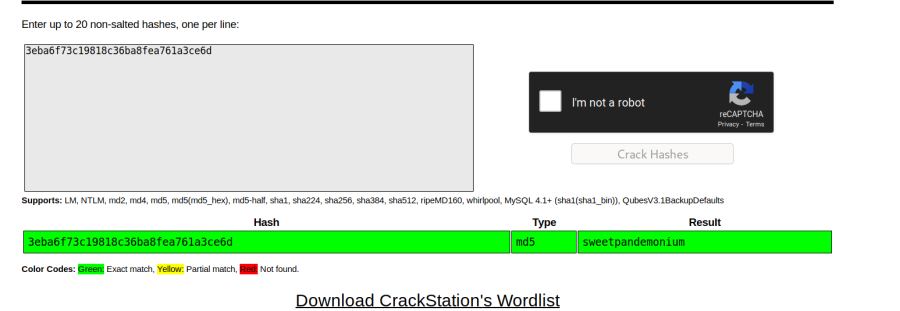
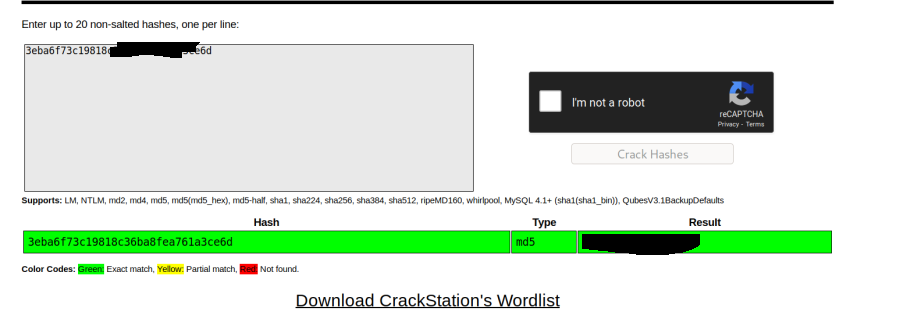
update

Changed region(s): [[0.6222, 0.7524, 0.7778, 0.8392], [0.1244, 0.1158, 0.2178, 0.2026]]

diff --git a/lockdown.html b/lockdown.html
@@ -62,7 +62,7 @@
                   
 
 
-<body><br /><br />Hey guys today we are hacking a medium level box on tryhackme, it invloves a simple sql injection to get to the admin panel then uploading and running a reverse shell to get web. <br />To get root we a tasked with a script that uses ClamAV and we create our own rule to read any file we want.<br /><br /><br />Difficulty: <font color=orange> Medium</font><br /><br /><br />Points: 60<br /><br /><br />Room Link: <a href="https://tryhackme.com/room/lockdwon"><font color=grey>Click Here</font></a><br /><br /><br /><br /><br />Starting off with nmap<br /><br /><span class="highlight">nmap -v -sV -sC -oA nmap lockdown.thm</span><br /><br /><br />22/tcp open  ssh     OpenSSH 7.6p1 Ubuntu 4ubuntu0.3 (Ubuntu Linux; protocol 2.0)<br />| ssh-hostkey: <br />|   2048 27:1d:c5:8a:0b:bc:02:c0:f0:f1:f5:5a:d1:ff:a4:63 (RSA)<br />|   256 ce:f7:60:29:52:4f:65:b1:20:02:0a:2d:07:40:fd:bf (ECDSA)<br />|_  256 a5:b5:5a:40:13:b0:0f:b6:5a:5f:21:60:71:6f:45:2e (ED25519)<br />80/tcp open  http    Apache httpd 2.4.29 ((Ubuntu))<br />| http-cookie-flags: <br />|   /: <br />|     PHPSESSID: <br />|_      httponly flag not set<br />| http-methods: <br />|_  Supported Methods: GET HEAD POST OPTIONS<br />|_http-server-header: Apache/2.4.29 (Ubuntu)<br />|_http-title: Coronavirus Contact Tracer<br />Service Info: OS: Linux; CPE: cpe:/o:linux:linux_kernel<br /><br /><br />Looks like just http and ssh, lets them out<br /><br />Okay when we first visit the website we get a admin login panel<br /><br /><br /><img src="lockdown/102-1.png" alt="lockdown/102-1.png" /><br /><br /><br />Now while I hade gobuster running I tried common user and passwords and simple sql injections and I got a log in!<br /><br /><br /><img src="lockdown/102-2.png" alt="lockdown/102-2.png" /><br /><br /><br />Using <span class="highlight">' or 1=1 -- -</span> as the user and anything for the password we get access the admin panel!<br /><br />After looking around for a bit I went to /admin/?page=system_info a saw I could upload a file to logo and it had no restrictions so I uploaded a php reverse shell<br /><br /><br /><img src="lockdown/102-3.png" alt="lockdown/102-3.png" /><br /><br /><br />Now I went looking around trying to find a page that would run the logo page and give me a shell (Make sure you have your nc listner going)<br /><br />Then I found when I logout of the admin panel and visit <a href="http://contacttracer.thm">http://contacttracer.thm</a> I loads the logo and runs my php reverse shell!<br /><br /><br /><img src="lockdown/102-4.png" alt="lockdown/102-4.png" /><br /><br />Cool we got a shell! <br /><br />Lets enumerate now to get user. First place I always look is /var/www/html/config.php so lets look there<br /><br /><br /><img src="lockdown/102-5.png" alt="lockdown/102-5.png" /><br /><br /><br />Seems to have no creds but it does show a intresting path classes/DBConnection.php, lets check it out.<br /><br /><br /><img src="lockdown/102-6.png" alt="lockdown/102-6.png" /><br /><br /><br />Nice we got creds to cts_db data base, lets use mysql to log into it.<br /><br /><span class="highlight">mysql -u cts -p</span><br /><br /><br /><img src="lockdown/102-7.png" alt="lockdown/102-7.png" /><br /><br /><br /><span class="highlight">use cts_db;</span><br /><br /><span class="highlight">show tables;</span><br /><br /><br /><img src="lockdown/102-8.png" alt="lockdown/102-8.png" /><br /><br /><br />users looks intrest, lets see whats inside of it<br /><br /><br /><img src="lockdown/102-9.png" alt="lockdown/102-9.png" /><br /><br /><br />Cool we got a password hash and seems to be md5, lets crack it. I just used a online cracking website<br /><br /><br /><img src="lockdown/102-10.png" alt="lockdown/102-10.png" /><br /><br /><br />Cools we get creds, lets use it on cyrus!<br />cyrus : {Redacted}<br /><br /><br /><img src="lockdown/102-11.png" alt="lockdown/102-11.png" /><br /><br /><br />Cool we get user. I su'd to cyrus on my other shell and imported my ssh key into his authorized_keys so I could ssh in.<br /><br /><br /><img src="lockdown/102-12.png" alt="lockdown/102-12.png" /><br /><br /><br />Okay looks like we can run scan.sh as root, lets check it out.<br /><br /><br /><img src="lockdown/102-13.png" alt="lockdown/102-13.png" /><br /><br /><br />Okay so not going to lie this had me confused for a while but after a large amount of enumeration I found out clamscan or ClamAV supports yara rules. If we have access to the directory to which the rules are stored, we could import our own rule and make ClamAV do what we want. Lets check if we can do that!<br /><a href="https://docs.clamav.net/manual/Signatures/YaraRules.html">https://docs.clamav.net/manual/Signatures/YaraRules.html</a><br /><br />After finding the main .conf file /etc/clamav/freshclam.conf we can see inside it where the Database Directory is!<br /><br /><br /><img src="lockdown/102-14.png" alt="lockdown/102-14.png" /><br /><br /><br />It seems to be /var/lib/clamav<br /><br /><br /><img src="lockdown/102-15.png" alt="lockdown/102-15.png" /><br /><br /><br />Funnt enough we have full read write privs to it! Lets make some rules<br /><br />First I removed the defualt rule<br /><br /><br /><img src="lockdown/102-16.png" alt="lockdown/102-16.png" /><br /><br /><br />Now lets make our rule<br /><br />rule.yara :<br /><br /><div class="codebox"><div class="codebox">rule&nbsp;test&nbsp;<br />{<br />&nbsp;&nbsp;strings:<br />&nbsp;&nbsp;&nbsp;&nbsp;$show&nbsp;=&nbsp;"root"<br />&nbsp;&nbsp;condition:<br />&nbsp;&nbsp;&nbsp;&nbsp;$show<br />}</div></div><br /><br />So what this rule does is search for the string “root” within the file we scan. If it finds a match within the file we scan it we flag it as a virus and output it to /home/cyrus/quarantine/ where we can the read it! Now you could just scan for the string “THM” within /root/root.txt but wheres the fun of getting root flag and not actually get root on the system.<br /><br /><br /><img src="lockdown/102-17.png" alt="lockdown/102-17.png" /><br /><br /><br />So I ran scan.sh as root and scaned /etc/shadow and it copied the file! Lets read it<br /><br /><br /><img src="lockdown/102-18.png" alt="lockdown/102-18.png" /><br /><br /><br />Sadly there is no root hash but there is a hash for maxine, lets crack it!<br /><br /><span class="highlight">hashcat -O -m 1800 '$6$/syu6s6/$Z5j6C61vrwzvXmFsvMRzwNYHO71NSQgm/z4cWQpDxMt3JEpT9FvnWm4Nuy.xE3xCQHzY3q9Q4lxXLJyR1mt320' /usr/share/wordlists/rockyou.txt</span><br /><br /><br /><img src="lockdown/102-19.png" alt="lockdown/102-19.png" /><br /><br /><br />Nice we cracked it, now lets log in as maxine!<br />maxine : {Redacted}<br /><br /><br /><img src="lockdown/102-20.png" alt="lockdown/102-20.png" /><br /><br /><br />Seems we can run anything as sudo!<br /><br />sudo su<br /><br /><br /><img src="lockdown/102-21.png" alt="lockdown/102-21.png" /><br /><br /><br />And as easy as that we're root!<br /><br /><br /></body>
+<body><br /><br />Hey guys today we are hacking a medium level box on tryhackme, it invloves a simple sql injection to get to the admin panel then uploading and running a reverse shell to get web. <br />To get root we a tasked with a script that uses ClamAV and we create our own rule to read any file we want.<br /><br /><br />Difficulty: <font color=orange> Medium</font><br /><br /><br />Points: 60<br /><br /><br />Room Link: <a href="https://tryhackme.com/room/lockdwon"><font color=grey>Click Here</font></a><br /><br /><br /><br /><br />Starting off with nmap<br /><br /><span class="highlight">nmap -v -sV -sC -oA nmap lockdown.thm</span><br /><br /><br />22/tcp open  ssh     OpenSSH 7.6p1 Ubuntu 4ubuntu0.3 (Ubuntu Linux; protocol 2.0)<br />| ssh-hostkey: <br />|   2048 27:1d:c5:8a:0b:bc:02:c0:f0:f1:f5:5a:d1:ff:a4:63 (RSA)<br />|   256 ce:f7:60:29:52:4f:65:b1:20:02:0a:2d:07:40:fd:bf (ECDSA)<br />|_  256 a5:b5:5a:40:13:b0:0f:b6:5a:5f:21:60:71:6f:45:2e (ED25519)<br />80/tcp open  http    Apache httpd 2.4.29 ((Ubuntu))<br />| http-cookie-flags: <br />|   /: <br />|     PHPSESSID: <br />|_      httponly flag not set<br />| http-methods: <br />|_  Supported Methods: GET HEAD POST OPTIONS<br />|_http-server-header: Apache/2.4.29 (Ubuntu)<br />|_http-title: Coronavirus Contact Tracer<br />Service Info: OS: Linux; CPE: cpe:/o:linux:linux_kernel<br /><br /><br />Looks like just http and ssh, lets them out<br /><br />Okay when we first visit the website we get a admin login panel<br /><br /><br /><img src="lockdown/102-1.png" alt="lockdown/102-1.png" /><br /><br /><br />Now while I hade gobuster running I tried common user and passwords and simple sql injections and I got a log in!<br /><br /><br /><img src="lockdown/102-2.png" alt="lockdown/102-2.png" /><br /><br /><br />Using <span class="highlight">' or 1=1 -- -</span> as the user and anything for the password we get access the admin panel!<br /><br />After looking around for a bit I went to /admin/?page=system_info a saw I could upload a file to logo and it had no restrictions so I uploaded a php reverse shell<br /><br /><br /><img src="lockdown/102-3.png" alt="lockdown/102-3.png" /><br /><br /><br />Now I went looking around trying to find a page that would run the logo page and give me a shell (Make sure you have your nc listner going)<br /><br />Then I found when I logout of the admin panel and visit <a href="http://contacttracer.thm">http://contacttracer.thm</a> I loads the logo and runs my php reverse shell!<br /><br /><br /><img src="lockdown/102-4.png" alt="lockdown/102-4.png" /><br /><br />Cool we got a shell! <br /><br />Lets enumerate now to get user. First place I always look is /var/www/html/config.php so lets look there<br /><br /><br /><img src="lockdown/102-5.png" alt="lockdown/102-5.png" /><br /><br /><br />Seems to have no creds but it does show a intresting path classes/DBConnection.php, lets check it out.<br /><br /><br /><img src="lockdown/102-6.png" alt="lockdown/102-6.png" /><br /><br /><br />Nice we got creds to cts_db data base, lets use mysql to log into it.<br /><br /><span class="highlight">mysql -u cts -p</span><br /><br /><br /><img src="lockdown/102-7.png" alt="lockdown/102-7.png" /><br /><br /><br /><span class="highlight">use cts_db;</span><br /><br /><span class="highlight">show tables;</span><br /><br /><br /><img src="lockdown/102-8.png" alt="lockdown/102-8.png" /><br /><br /><br />users looks intrest, lets see whats inside of it<br /><br /><br /><img src="lockdown/102-9.png" alt="lockdown/102-9.png" /><br /><br /><br />Cool we got a password hash and seems to be md5, lets crack it. I just used a online cracking website<br /><br /><br /><img src="lockdown/102-10.png" alt="lockdown/102-10.png" /><br /><br /><br />Cools we get creds, lets use it on cyrus!<br />cyrus : {Redacted}<br /><br /><br /><img src="lockdown/102-11.png" alt="lockdown/102-11.png" /><br /><br /><br />Cool we get user. I su'd to cyrus on my other shell and imported my ssh key into his authorized_keys so I could ssh in.<br /><br /><br /><img src="lockdown/102-12.png" alt="lockdown/102-12.png" /><br /><br /><br />Okay looks like we can run scan.sh as root, lets check it out.<br /><br /><br /><img src="lockdown/102-13.png" alt="lockdown/102-13.png" /><br /><br /><br />Okay so not going to lie this had me confused for a while but after a large amount of enumeration I found out clamscan or ClamAV supports yara rules. If we have access to the directory to which the rules are stored, we could import our own rule and make ClamAV do what we want. Lets check if we can do that!<br /><a href="https://docs.clamav.net/manual/Signatures/YaraRules.html">https://docs.clamav.net/manual/Signatures/YaraRules.html</a><br /><br />After finding the main .conf file /etc/clamav/freshclam.conf we can see inside it where the Database Directory is!<br /><br /><br /><img src="lockdown/102-14.png" alt="lockdown/102-14.png" /><br /><br /><br />It seems to be /var/lib/clamav<br /><br /><br /><img src="lockdown/102-15.png" alt="lockdown/102-15.png" /><br /><br /><br />Funnt enough we have full read write privs to it! Lets make some rules<br /><br />First I removed the defualt rule<br /><br /><br /><img src="lockdown/102-16.png" alt="lockdown/102-16.png" /><br /><br /><br />Now lets make our rule<br /><br />rule.yara :<br /><br /><div class="codebox"><div class="codebox">rule&nbsp;test&nbsp;<br />{<br />&nbsp;&nbsp;strings:<br />&nbsp;&nbsp;&nbsp;&nbsp;$show&nbsp;=&nbsp;"root"<br />&nbsp;&nbsp;condition:<br />&nbsp;&nbsp;&nbsp;&nbsp;$show<br />}</div></div><br /><br />So what this rule does is search for the string “root” within the file we scan. If it finds a match within the file we scan it we flag it as a virus and output it to /home/cyrus/quarantine/ where we can the read it! Now you could just scan for the string “THM” within /root/root.txt but wheres the fun of getting root flag and not actually get root on the system.<br /><br /><br /><img src="lockdown/102-17.png" alt="lockdown/102-17.png" /><br /><br /><br />So I ran scan.sh as root and scaned /etc/shadow and it copied the file! Lets read it<br /><br /><br /><img src="lockdown/102-18.png" alt="lockdown/102-18.png" /><br /><br /><br />Sadly there is no root hash but there is a hash for maxine, lets crack it!<br /><br /><span class="highlight">hashcat -O -m 1800 '$6$/{Redacted}' /usr/share/wordlists/rockyou.txt</span><br /><br /><br /><img src="lockdown/102-19.png" alt="lockdown/102-19.png" /><br /><br /><br />Nice we cracked it, now lets log in as maxine!<br />maxine : {Redacted}<br /><br /><br /><img src="lockdown/102-20.png" alt="lockdown/102-20.png" /><br /><br /><br />Seems we can run anything as sudo!<br /><br />sudo su<br /><br /><br /><img src="lockdown/102-21.png" alt="lockdown/102-21.png" /><br /><br /><br />And as easy as that we're root!<br /><br /><br /></body>
 
                 </div>
               </h1>
